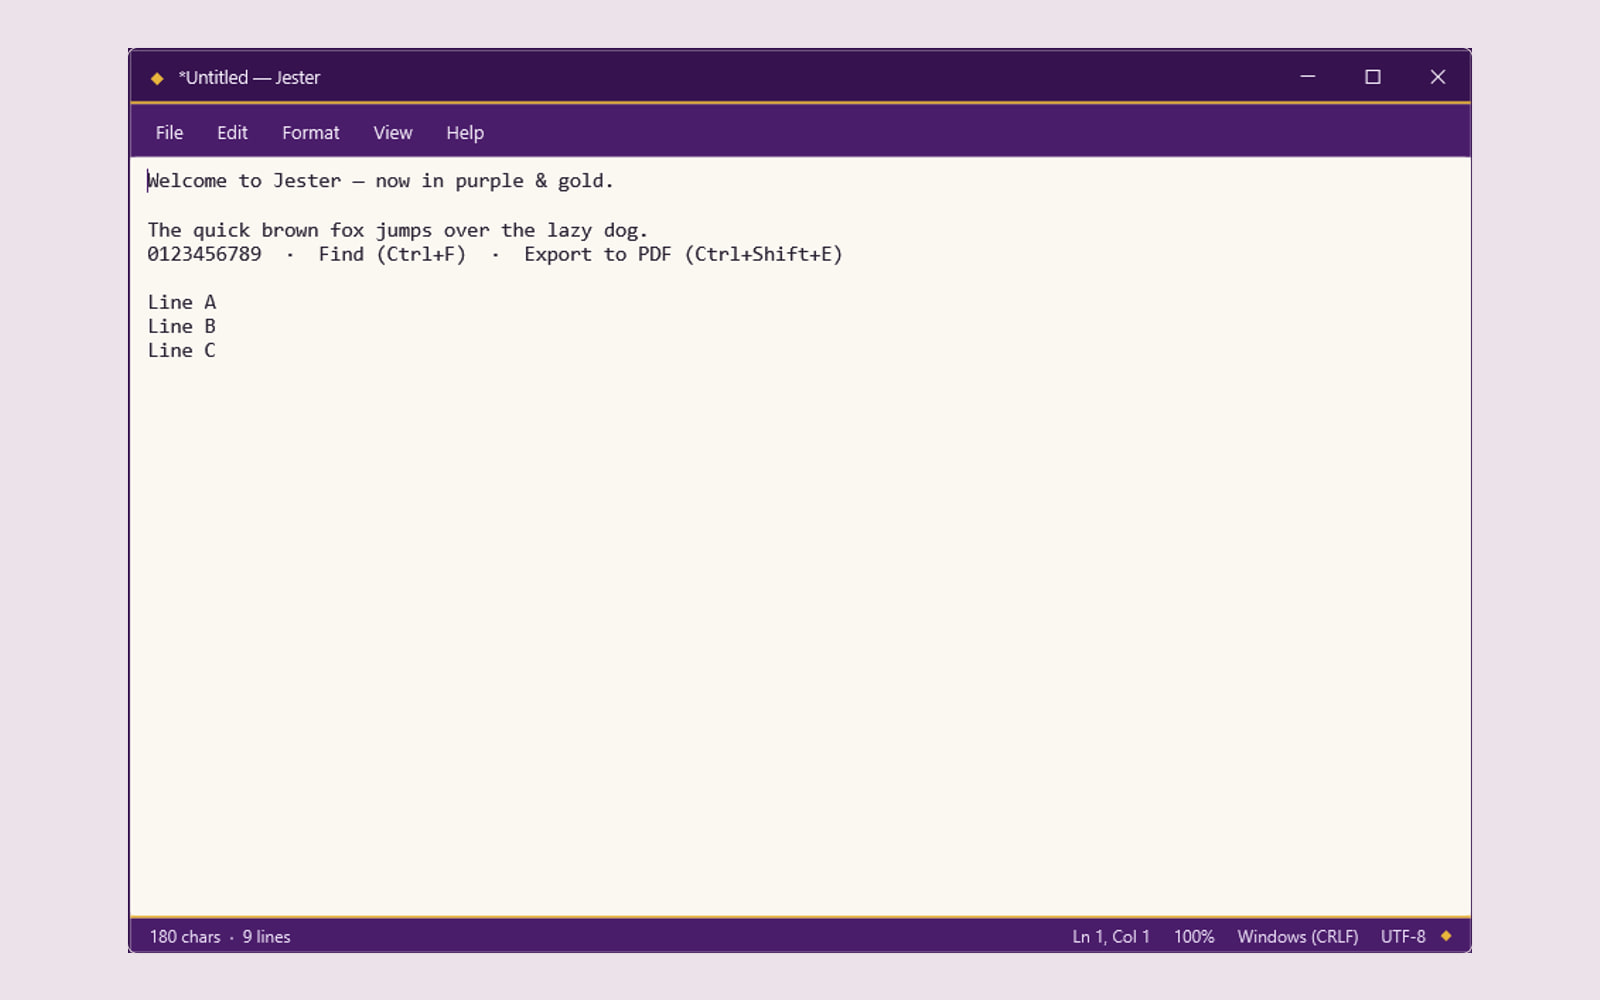
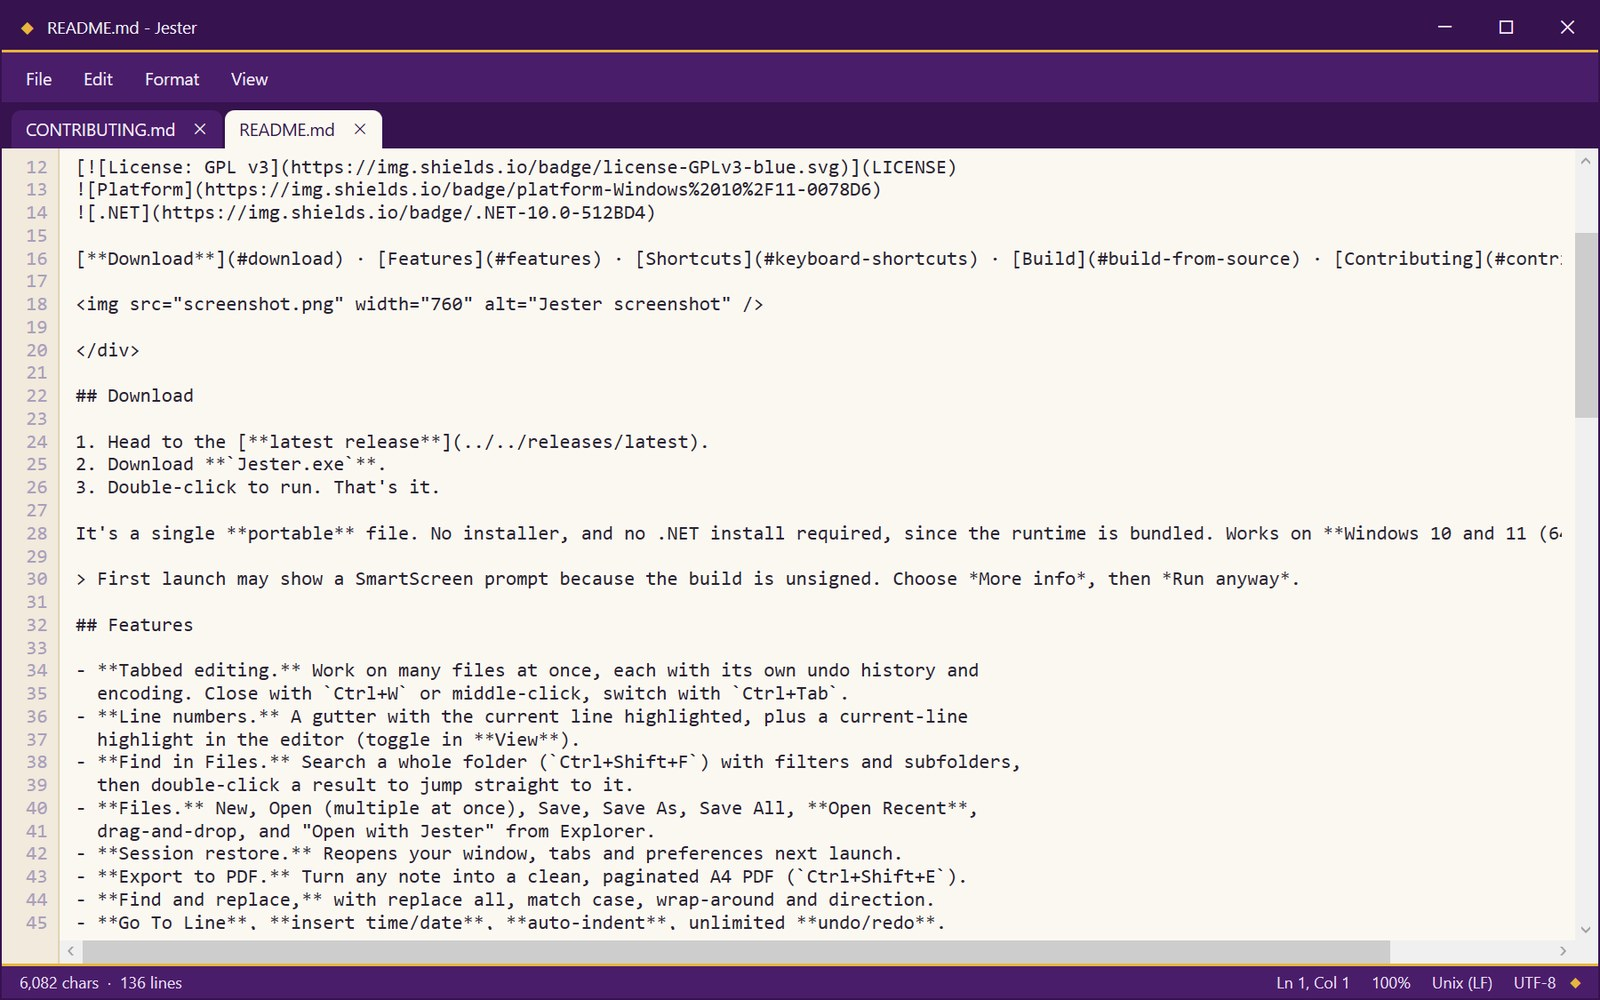
Retake the Jester screenshot with two tabs open

diff --git a/src/constants/projects/jester.ts b/src/constants/projects/jester.ts
@@ -71,7 +71,7 @@ export const jester: Record<Language, LocalizedContent> = {
       },
     ],
     captions: [
-      "Jester in its purple and gold theme with an unsaved Untitled note, the status bar showing 180 characters, 9 lines, Windows (CRLF) line endings and UTF-8.",
+      "Jester in its purple and gold theme with two tabs open, its own README and CONTRIBUTING, with line numbers and the status bar counting 6,082 characters in 136 lines.",
     ],
     tags: ["C#", "WPF", ".NET 10", "Windows"],
     stats: [
@@ -128,7 +128,7 @@ export const jester: Record<Language, LocalizedContent> = {
       },
     ],
     captions: [
-      "Jester im Violett-Gold-Theme mit einer ungespeicherten Notiz „Untitled“, die Statusleiste zeigt 180 Zeichen, 9 Zeilen, Windows-Zeilenenden (CRLF) und UTF-8.",
+      "Jester im Violett-Gold-Theme mit zwei offenen Tabs, dem eigenen README und CONTRIBUTING, mit Zeilennummern und einer Statusleiste, die 6'082 Zeichen in 136 Zeilen zählt.",
     ],
     tags: ["C#", "WPF", ".NET 10", "Windows"],
     stats: [
@@ -185,7 +185,7 @@ export const jester: Record<Language, LocalizedContent> = {
       },
     ],
     captions: [
-      "Jester dans son thème violet et or avec une note « Untitled » non enregistrée, la barre d'état affichant 180 caractères, 9 lignes, des fins de ligne Windows (CRLF) et l'UTF-8.",
+      "Jester dans son thème violet et or avec deux onglets ouverts, son propre README et CONTRIBUTING, les numéros de ligne et la barre d'état qui compte 6 082 caractères sur 136 lignes.",
     ],
     tags: ["C#", "WPF", ".NET 10", "Windows"],
     stats: [
@@ -242,7 +242,7 @@ export const jester: Record<Language, LocalizedContent> = {
       },
     ],
     captions: [
-      "紫金配色的 Jester，打开着一篇未保存的 Untitled 笔记，状态栏显示 180 个字符、9 行、Windows (CRLF) 行尾和 UTF-8。",
+      "紫金配色的 Jester 打开着两个标签页，是它自己的 README 和 CONTRIBUTING，带行号，状态栏显示 136 行共 6,082 个字符。",
     ],
     tags: ["C#", "WPF", ".NET 10", "Windows"],
     stats: [
